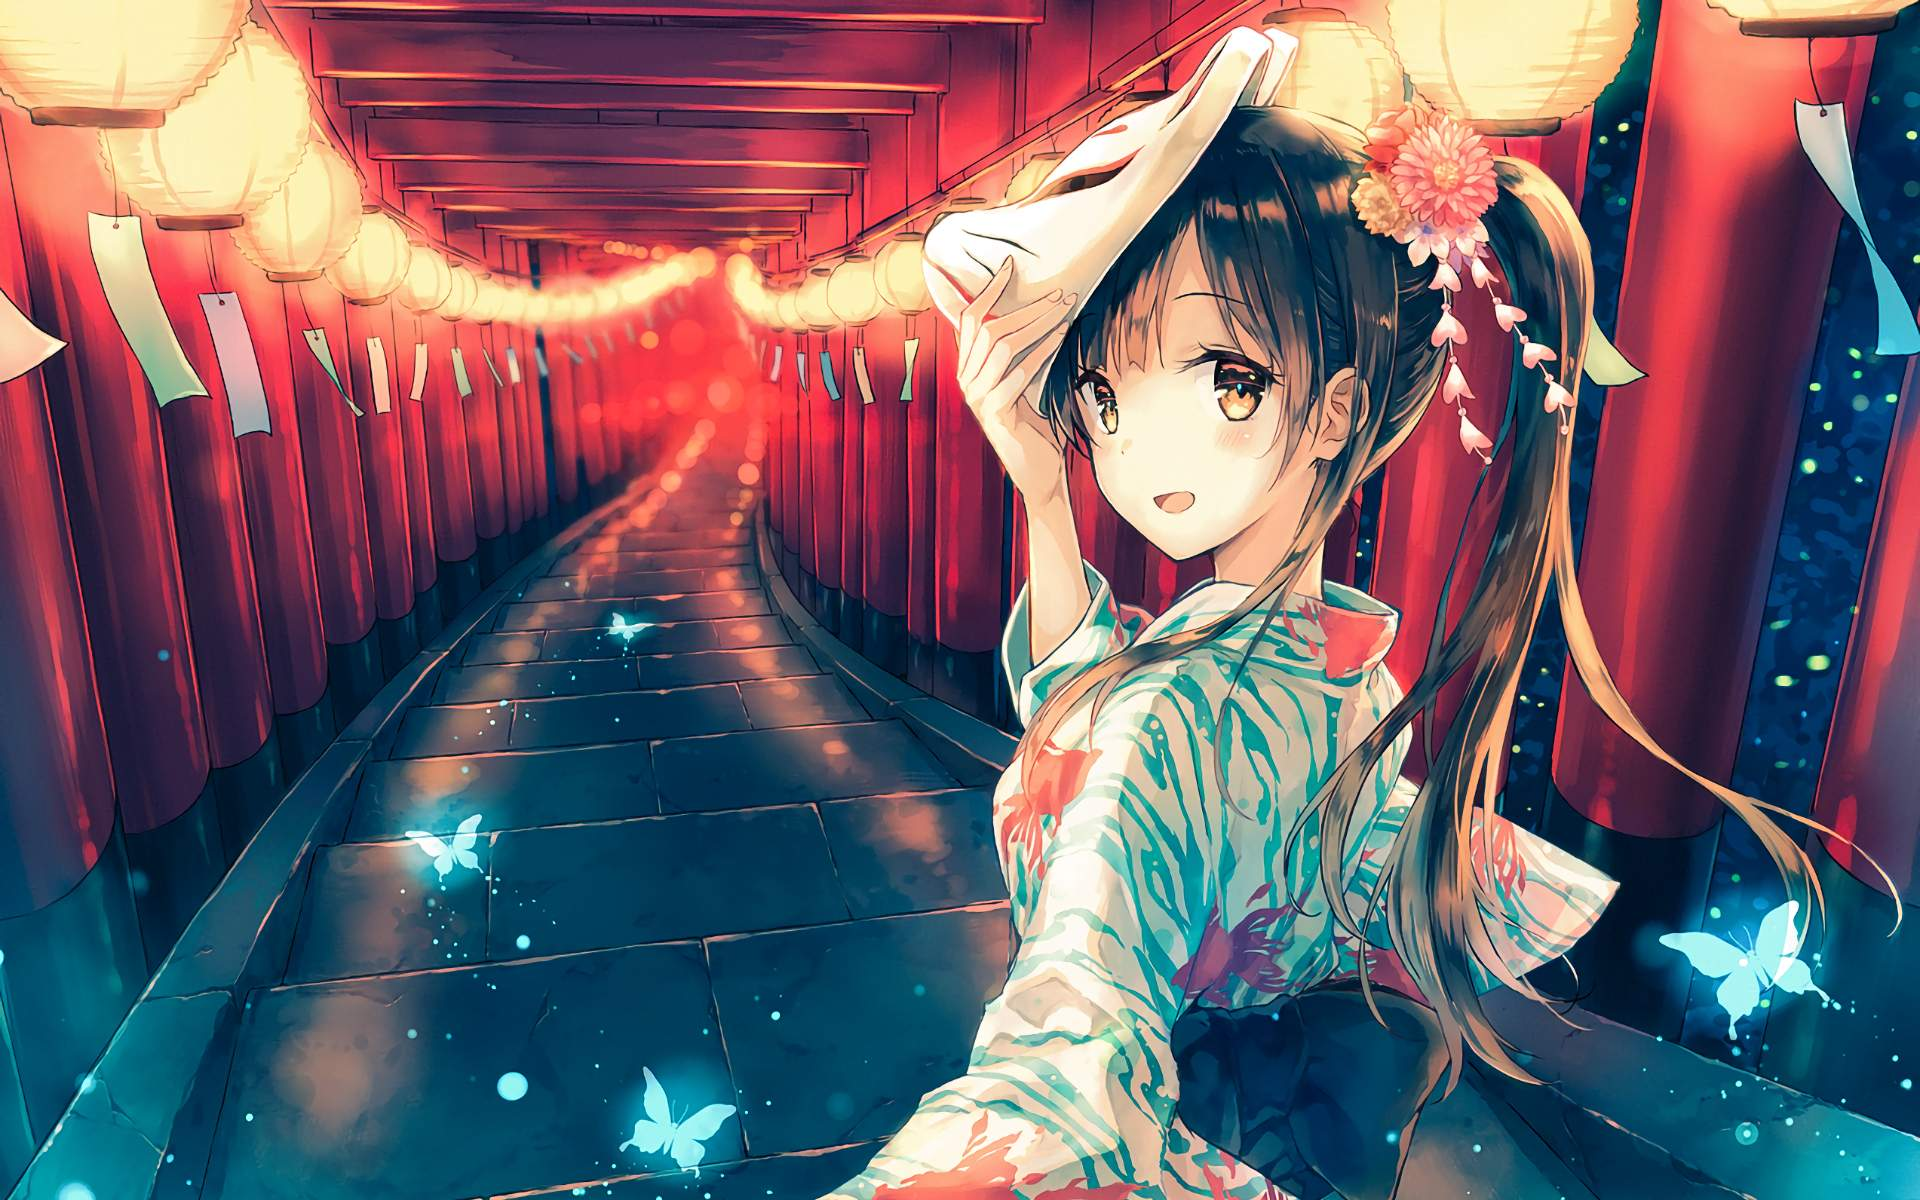
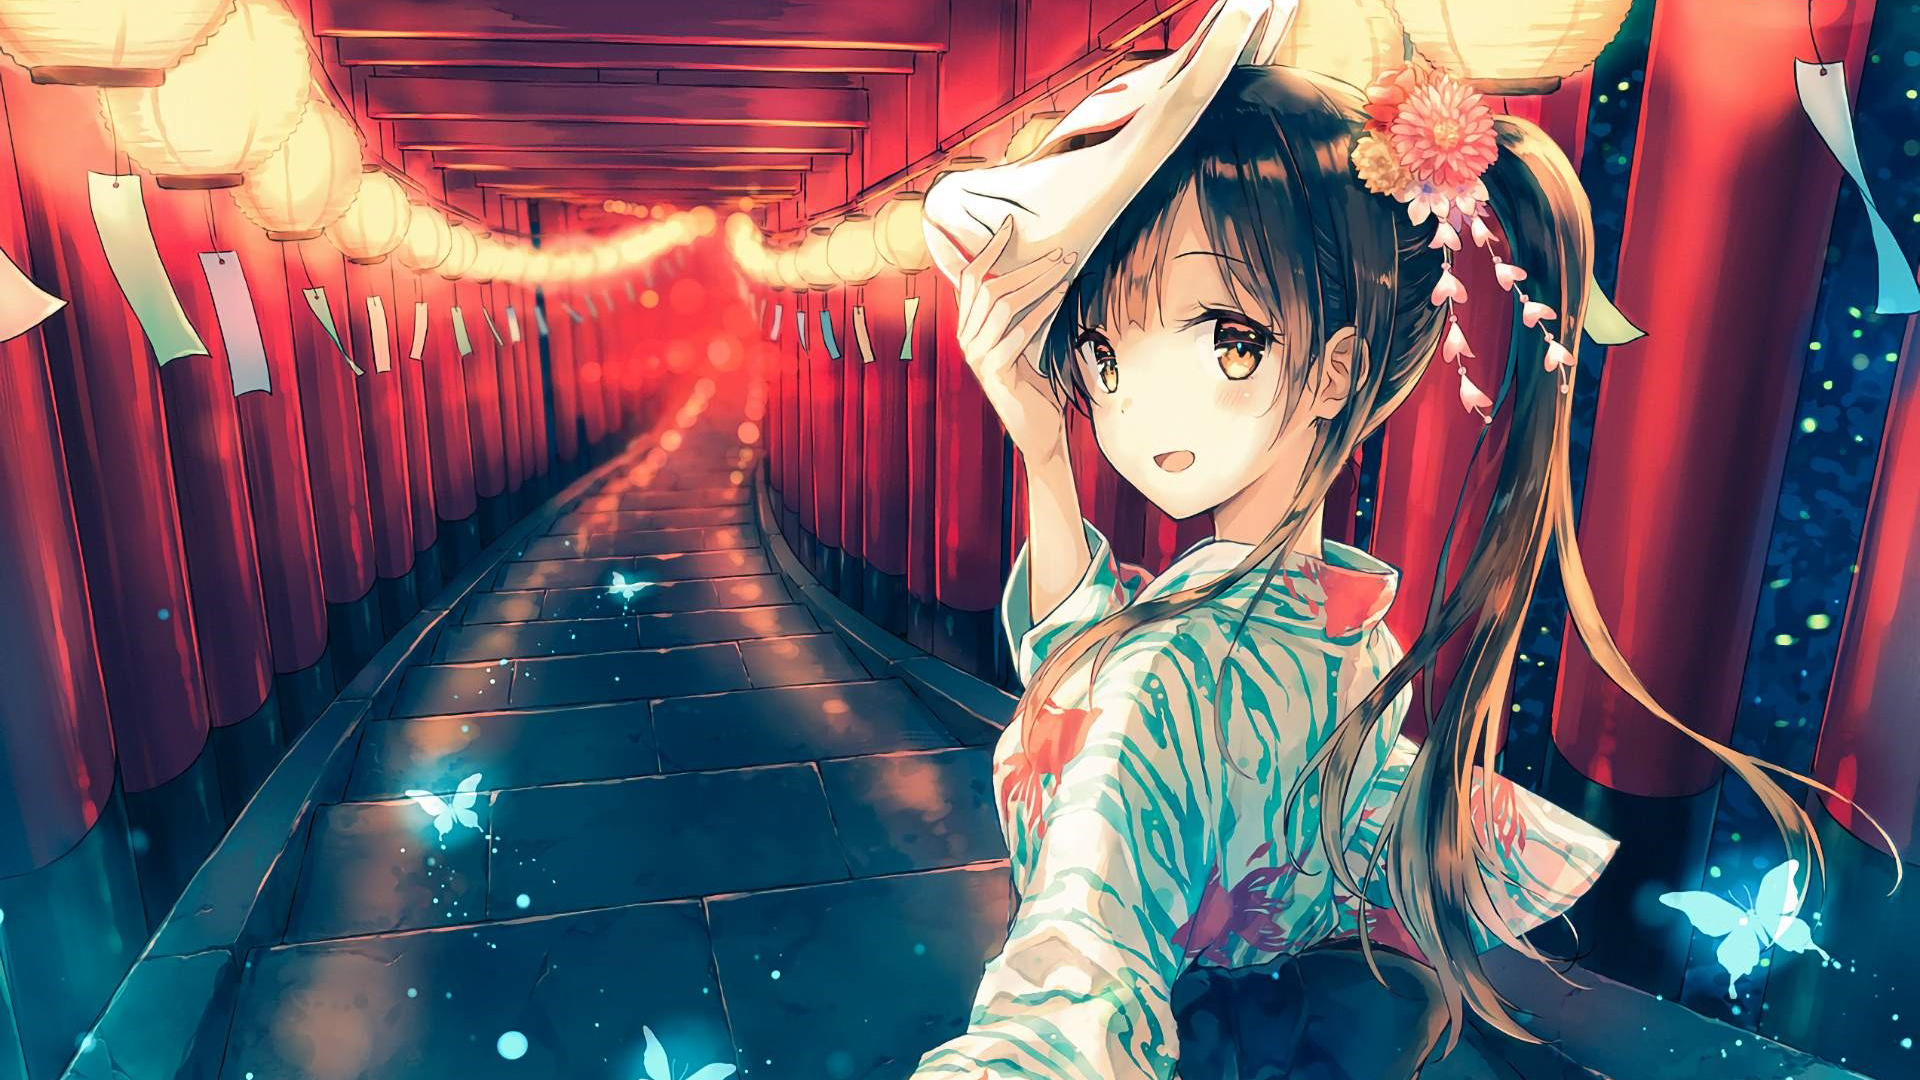
[Enhancement] Smooth transition for Header Image

diff --git a/src/react/screens/index/Layout.jsx b/src/react/screens/index/Layout.jsx
@@ -12,20 +12,17 @@ import Button from "@material-ui/core/Button/Button";
 import SvgIcon from "@material-ui/core/SvgIcon/SvgIcon";
 import Typography from "@material-ui/core/Typography/Typography";
 
+import { LoremIpsum } from "lorem-ipsum";
 
-function getBackgroundWithOpacity(background, opacity) {
-    const color = `rgba(0, 0, 0, ${opacity})`;
-    return `linear-gradient(${color}, ${color}), url(${background})`
-}
 
 const ExampleTitle = () =>
     <Typography variant={"h3"} paragraph>
-        {/*{ new LoremIpsum().generateWords(3) }*/}
+        { new LoremIpsum().generateWords(3) }
     </Typography>;
 
 const ExampleText = () => [1, 2, 3, 4].map(paragraph =>
     <Typography key={paragraph} paragraph style={{ fontSize: 18 }}>
-        {/*{ new LoremIpsum().generateParagraphs(7) }*/}
+        { new LoremIpsum().generateParagraphs(7) }
     </Typography>
 );
 
@@ -103,7 +100,7 @@ const HeroToolbar = props =>
         alignItems: "center",
         justifyContent: "space-between",
         padding: `16px ${16 * 8}px`,
-        backgroundColor: `rgba(0, 0, 0, ${0.6})`
+        backgroundColor: `rgba(0, 0, 0, ${props.heroOpacity + 0.2})`
     }}>
         <ToolbarTitle {...props}/>
         <ToolbarMenu {...props}/>
@@ -177,13 +174,25 @@ const HeroStatList = () =>
         <HeroStat title={"Views"} number={348} color={"#8e44ad"}/>
     </Grid>;
 
-const HeroImageList = props => props.images.map((image, index) =>
+const HeroImageList = props => props.backgrounds.map((image, index) =>
     <Grid item key={image}>
         <Avatar
             src={image}
             alt={`background-${index}`}
-            style={{ height: 48, width: 48 }}
-            onClick={() => props.changeBackground(image)}
+            style={ props.currentBackgroundIndex === index ? {
+                height: 60,
+                width: 60,
+                borderWidth: 2,
+                borderStyle: "solid",
+                borderColor: "#F50057",
+                borderSpacing: "15px",
+                transition: "all .4s ease-in-out"
+            } : {
+                height: 48,
+                width: 48,
+                transition: "all .4s ease-in-out"
+            }}
+            onClick={() => props.changeBackground(index)}
         />
     </Grid>
 );
@@ -218,7 +227,8 @@ const HeroContentLeft = props =>
 const HeroContent = props =>
     <div style={{
         flex: 1,
-        display: "flex"
+        display: "flex",
+        backgroundColor: `rgba(0, 0, 0, ${props.heroOpacity})`
     }}>
         <HeroContentLeft {...props}/>
         <HeroContentRight {...props}/>
@@ -231,7 +241,9 @@ const Hero = props =>
         backgroundSize: "cover",
         backgroundPosition: "center",
         backgroundRepeat: "no-repeat",
-        backgroundImage: getBackgroundWithOpacity(props.background, props.heroOpacity)
+        backgroundAttachment: "fixed", // Parallax effect
+        backgroundImage: `url(${props.background})`,
+        transition: "background-image 0.5s ease-in-out"
     }}>
         <HeroToolbar {...props}/>
         <HeroContent {...props}/>

diff --git a/src/react/screens/index/Index.jsx b/src/react/screens/index/Index.jsx
@@ -13,33 +13,40 @@ import Image7 from "../../../assets/backgrounds/img-totoro.jpg";
 class Index extends Component {
 
     state = {
-        background: Image3,
-        images: [ Image1, Image2, Image3, Image4, Image5, Image6, Image7]
+        currentBackgroundIndex: 2,
+        backgrounds: [ Image1, Image2, Image3, Image4, Image5, Image6, Image7]
     };
 
     componentDidMount() {
-        // this.interval = setInterval(this.nextBackground, 10000);
+        this.interval = setInterval(this.nextBackground, 8000);
     };
 
     componentWillUnmount() {
-        // clearInterval(this.interval);
+        clearInterval(this.interval);
+    };
+
+    currentBackground = () => {
+        const index = this.state.currentBackgroundIndex;
+        return this.state.backgrounds[index];
     };
 
     nextBackground = () => {
-        const curretImage = this.state.background;
-        const currentIndex = this.state.images.indexOf(curretImage);
-
-        this.setState(({ images }) => ({
-            background: images[currentIndex === this.state.images.length - 1 ? 0 : currentIndex + 1]
+        const index = this.state.currentBackgroundIndex;
+        const nBackgrounds = this.state.backgrounds.length;
+        this.setState(() => ({
+            currentBackgroundIndex: index === nBackgrounds - 1 ? 0 : index + 1
         }))
     };
 
-    changeBackground = image => {
-        this.setState({ background: image });
+    changeBackground = index => {
+        this.setState({ currentBackgroundIndex: index });
     };
 
     render() {
-        return <Layout {...this.state} changeBackground={this.changeBackground}/>;
+        return <Layout {...this.state}
+                       background={this.currentBackground()}
+                       changeBackground={this.changeBackground}
+        />;
     }
 
 }
